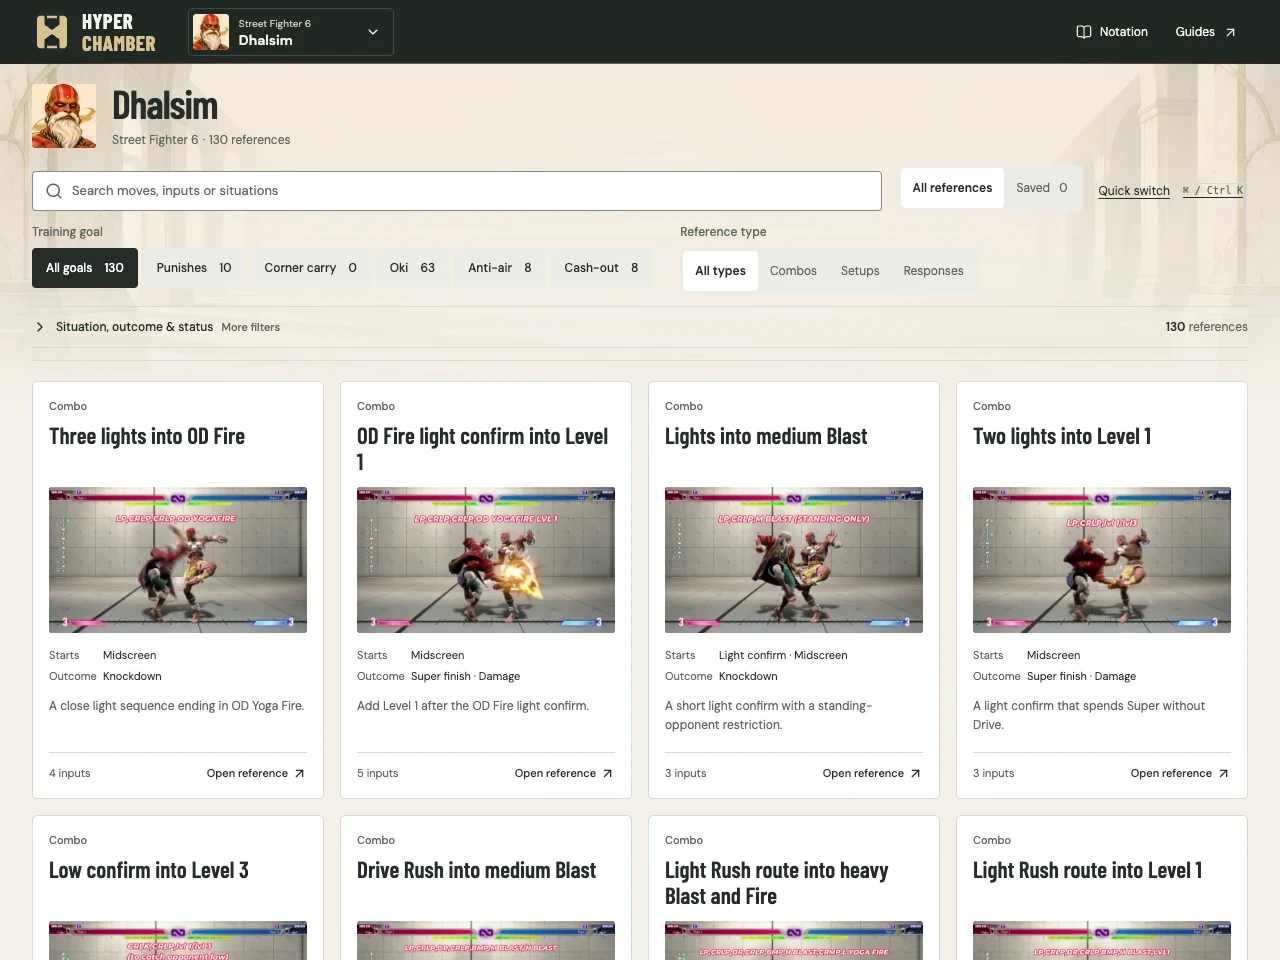
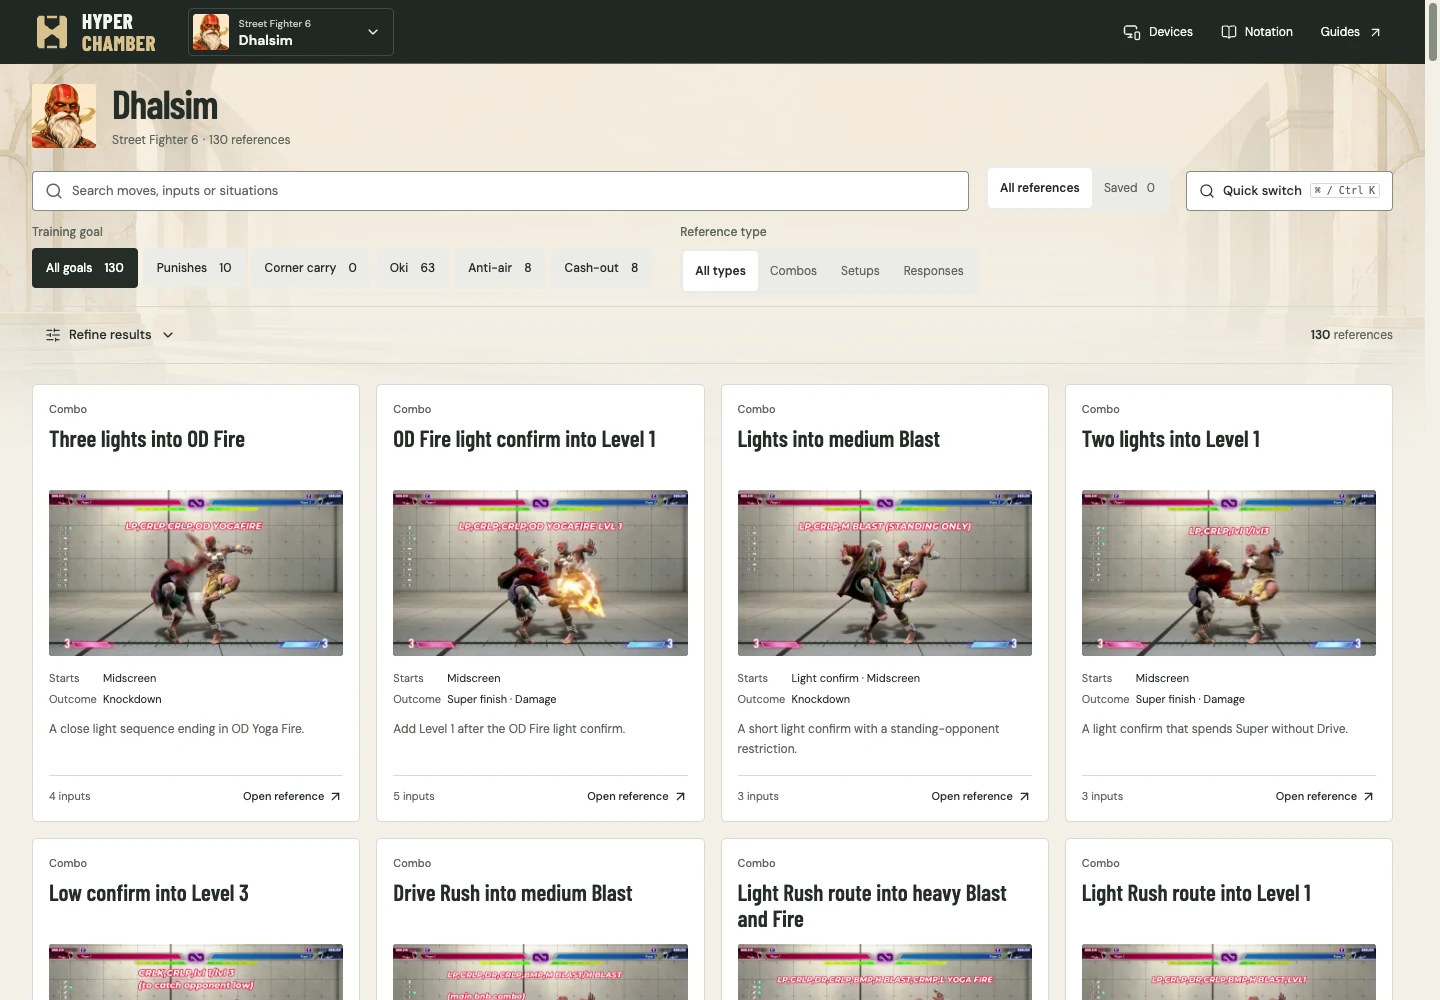
docs: refresh beta screenshots and source records

diff --git a/apps/site/index.html b/apps/site/index.html
@@ -82,8 +82,8 @@
 				<figure class="practice-preview">
 					<img
 						src="./assets/practice.webp"
-						width="1280"
-						height="960"
+						width="1440"
+						height="1000"
 						alt="Ryu's practice reference, with the input sequence above its paused replay and controls for looping and inspection."
 						fetchpriority="high"
 					/>
@@ -105,8 +105,8 @@
 				<figure class="library-preview">
 					<img
 						src="./assets/library.webp"
-						width="1280"
-						height="960"
+						width="1440"
+						height="1000"
 						alt="Dhalsim's reference library, with a character picker, search, training-goal filters and reference tiles."
 						loading="lazy"
 					/>

diff --git a/docs/screenshots/README.md b/docs/screenshots/README.md
@@ -1,11 +1,15 @@
 # README screenshots
 
-Captured from the local development preview of Hyper Chamber v0.3.0 on 12 November 2026, at commit `9e5b30af752609c3c7dce212baa39a6c5e672e0f`. These are real app screens in a fresh browser session, converted to WebP without retouching.
+Captured from Hyper Chamber v1.0.0-beta.1 on 13 November 2026, using the compiled browser interface at commit `555bd079eca154ee6ecce44a79aa1502fc6a5bb1`. These are real app screens in a fresh browser session, converted to WebP without retouching. Each image is one viewport, rather than a stitched page capture.
 
-| Image                     | Viewport   | App route                                 |
-| ------------------------- | ---------- | ----------------------------------------- |
-| [Practice](practice.webp) | 1280 × 960 | `?entry=ryu-joe-lights-od-tatsu-heavy-dp` |
-| [Library](library.webp)   | 1280 × 960 | `?character=dhalsim`                      |
-| [Phone](phone.webp)       | 390 × 844  | `?entry=ryu-joe-lights-od-tatsu-heavy-dp` |
+The capture used a fresh local SQLite library initialized with the repository's full development catalog and media fallback. It shows the interface with that content available; the desktop app's bundled starter contains three Dhalsim demonstrations, and additional references need their character packs.
 
-The practice and phone views show Joe Ebios' [Classic RYU Combos & Setup guide season 3](https://www.youtube.com/watch?v=Nxe9bFjbD0I&t=248), from the 4:08–4:13 source excerpt, paused 2.25 seconds into the prepared clip. Dhalsim's library previews come from elieatscrayons' [DHALSIM COMBO/OKI GUIDE SF6](https://www.youtube.com/watch?v=UW6GlWHKy7o). Original creators retain credit for their footage; capture does not establish redistribution permission. The illustrated character portraits are generated assets with [reference records](../character-portraits.json).
+| Image                     | Viewport    | App route                                 |
+| ------------------------- | ----------- | ----------------------------------------- |
+| [Practice](practice.webp) | 1440 × 1000 | `?entry=ryu-joe-lights-od-tatsu-heavy-dp` |
+| [Library](library.webp)   | 1440 × 1000 | `?character=dhalsim`                      |
+| [Phone](phone.webp)       | 390 × 844   | `?entry=ryu-joe-lights-od-tatsu-heavy-dp` |
+
+The practice and phone views show Joe Ebios' [Classic RYU Combos & Setup guide season 3](https://www.youtube.com/watch?v=Nxe9bFjbD0I&t=248), from the 4:08–4:13 source excerpt, paused 2.25 seconds into the prepared clip. Dhalsim's library shows its actual 130-reference collection; gameplay previews come from elieatscrayons' [DHALSIM COMBO/OKI GUIDE SF6](https://www.youtube.com/watch?v=UW6GlWHKy7o).
+
+Original creators retain credit for their footage; capture does not establish redistribution permission. The illustrated character portraits are generated assets with [reference records](../character-portraits.json). The project site copies these same screenshots and this source record during its build.
